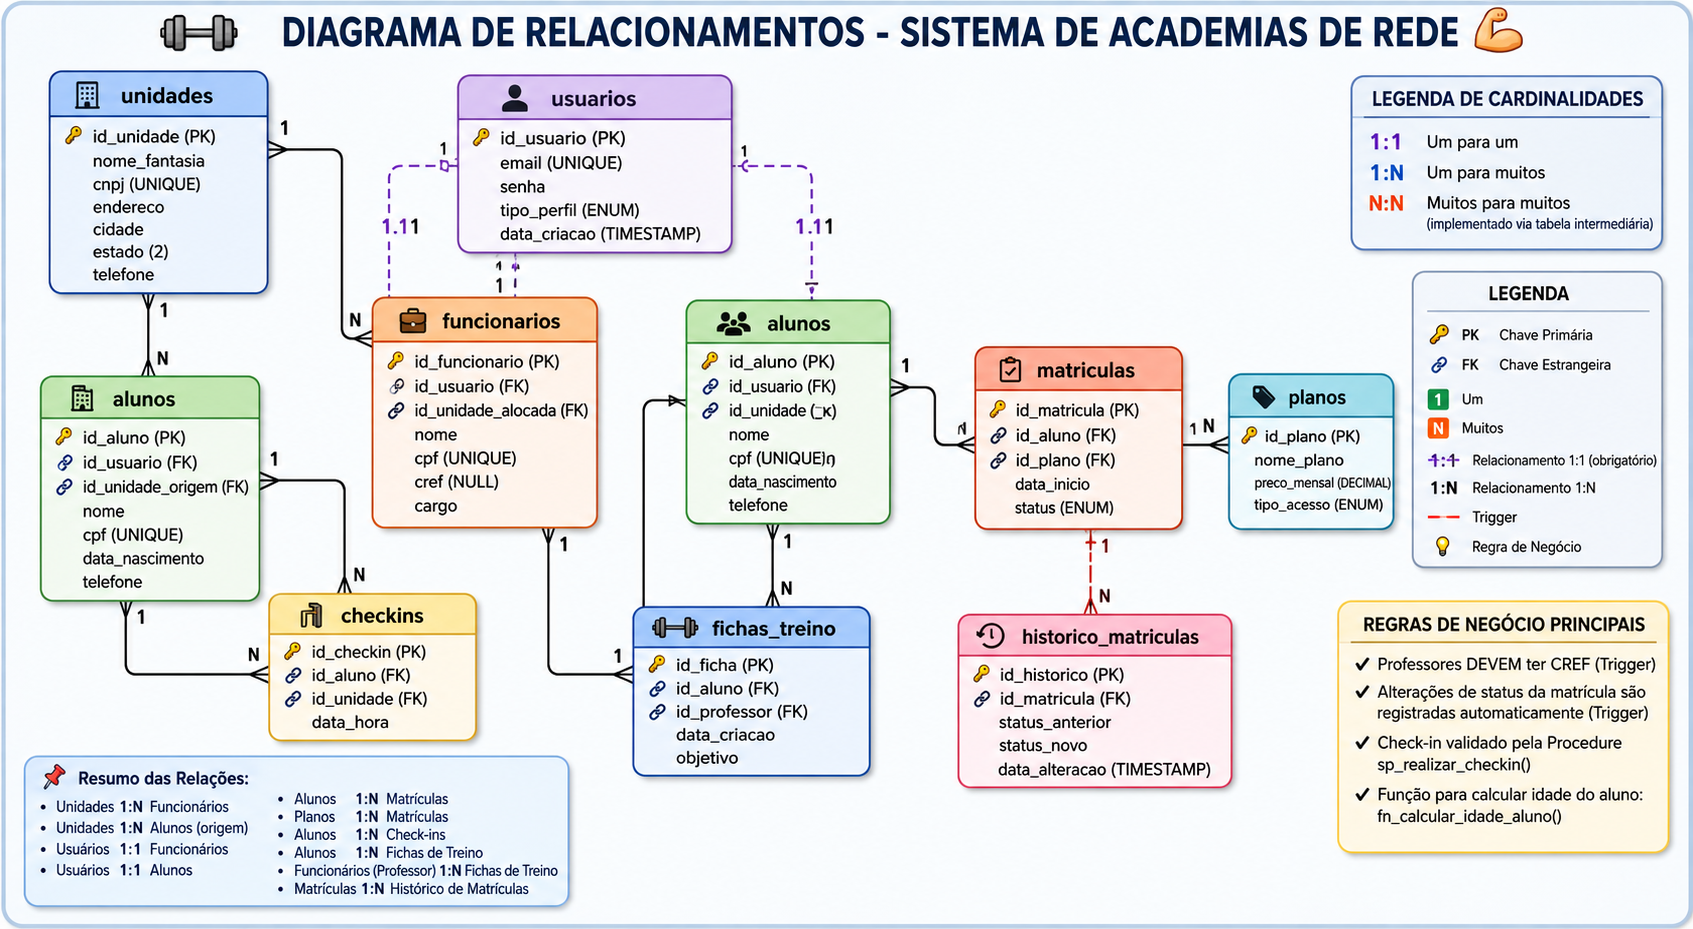
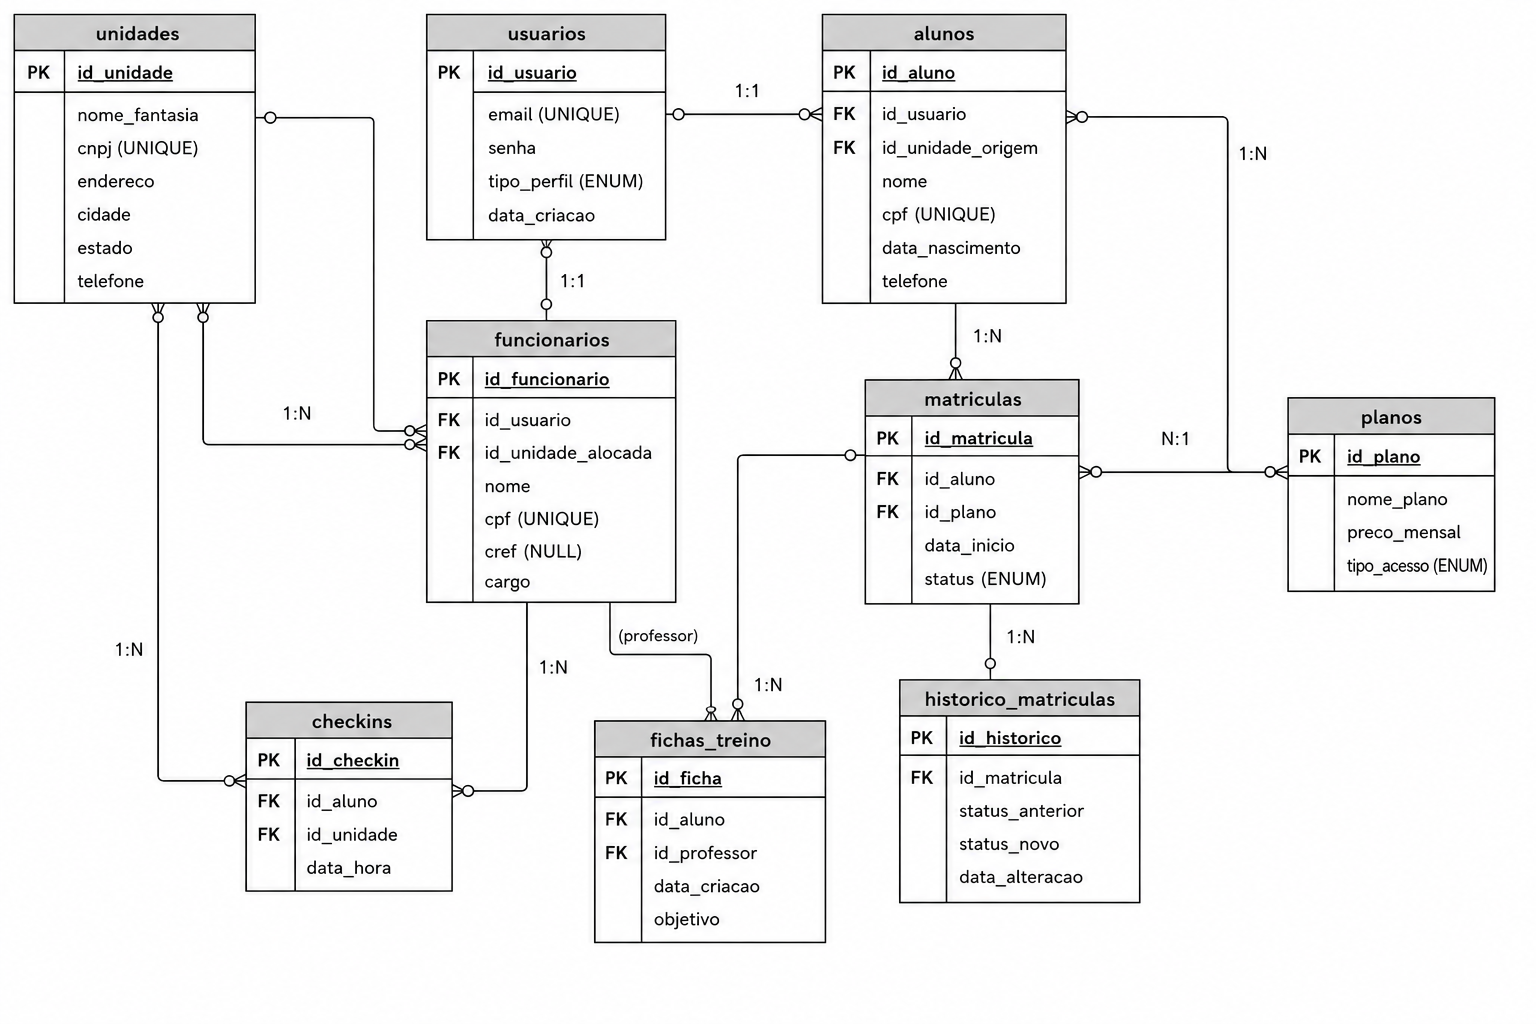
Atualização final do projeto

diff --git a/README.md b/README.md
@@ -1,6 +1,6 @@
-# 🏋️ Sistema de Gerenciamento de Academias de Rede
+# Sistema de Gerenciamento de Academias de Rede
 
-## 📌 Sobre o Projeto
+## Sobre o Projeto
 
 Este projeto consiste no desenvolvimento de um **Banco de Dados Relacional** para um **Sistema de Gerenciamento de Academias de Rede**, permitindo o controle integrado das unidades da academia, alunos, funcionários, planos, matrículas, frequência e fichas de treino.
 
@@ -8,7 +8,7 @@ O objetivo é simular um cenário real de uma rede de academias, aplicando conce
 
 ---
 
-## 🎯 Objetivos do Projeto
+## Objetivos do Projeto
 
 - Modelar um banco de dados para uma rede de academias;
 - Implementar tabelas com relacionamentos e restrições;
@@ -20,7 +20,7 @@ O objetivo é simular um cenário real de uma rede de academias, aplicando conce
 
 ---
 
-## 🛠 Tecnologias Utilizadas
+## Tecnologias Utilizadas
 
 - **MySQL 8.0+**
 - SQL (DDL e DML)
@@ -30,7 +30,7 @@ O objetivo é simular um cenário real de uma rede de academias, aplicando conce
 
 ---
 
-# 📂 Estrutura do Projeto
+# Estrutura do Projeto
 
 ```text
 Sistema de Gestão de Academias/
@@ -45,7 +45,7 @@ Sistema de Gestão de Academias/
 
 ---
 
-# 📋 Escopo do Sistema
+# Escopo do Sistema
 
 O sistema permite gerenciar:
 
@@ -61,7 +61,7 @@ O sistema permite gerenciar:
 
 ---
 
-# 🏢 Entidades do Sistema
+# Entidades do Sistema
 
 ## Unidades
 
@@ -157,45 +157,7 @@ Permite auditoria e acompanhamento da frequência dos alunos.
 
 Armazena os treinos prescritos pelos professores.
 
----
-
-# 🔗 Modelo Relacional
-
-## Relacionamentos
-
-| Entidades | Cardinalidade |
-|-----------|---------------|
-| Usuários × Funcionários | 1:1 |
-| Usuários × Alunos | 1:1 |
-| Unidades × Funcionários | 1:N |
-| Unidades × Alunos | 1:N |
-| Alunos × Matrículas | 1:N |
-| Planos × Matrículas | 1:N |
-| Alunos × Check-ins | 1:N |
-| Unidades × Check-ins | 1:N |
-| Alunos × Fichas de Treino | 1:N |
-| Funcionários × Fichas de Treino | 1:N |
-| Matrículas × Histórico de Matrículas | 1:N |
-
----
-
-## Relacionamento N:N Normalizado
-
-Conceitualmente:
-
-```text
-Alunos ←→ Planos
-```
-
-Foi implementado através da tabela intermediária:
-
-```text
-Alunos (1) ← Matrículas → (1) Planos
-```
-
----
-
-# ⚙️ Regras de Negócio
+# Regras de Negócio
 
 ## Controle de acesso à rede
 
@@ -221,7 +183,7 @@ Toda alteração de status em uma matrícula é registrada automaticamente.
 
 ---
 
-# 🧩 Objetos Programáveis
+# Objetos Programáveis
 
 ## Stored Function
 
@@ -251,7 +213,7 @@ CALL sp_realizar_checkin(1, 2);
 
 ---
 
-# 🔔 Triggers
+# Triggers
 
 ## `tr_validar_cref_professor`
 
@@ -265,7 +227,7 @@ Registra automaticamente alterações no status das matrículas.
 
 ---
 
-# 👁 Views
+# Views
 
 ## `vw_alunos_ativos`
 
@@ -285,7 +247,7 @@ Lista os funcionários agrupados por unidade.
 
 ---
 
-# 📊 Estrutura do Banco
+# Estrutura do Banco
 
 ## Principais tabelas
 
@@ -301,7 +263,7 @@ Lista os funcionários agrupados por unidade.
 
 ---
 
-# 🚀 Como Executar o Projeto
+# Como Executar o Projeto
 
 ## 1. Clonar o repositório
 
@@ -322,7 +284,7 @@ Utilize uma das ferramentas abaixo:
 
 ---
 
-# 🧪 Exemplos de Teste
+# Exemplos de Teste
 
 ## Consultar alunos ativos
 
@@ -382,7 +344,7 @@ SELECT * FROM historico_matriculas;
 
 ---
 
-# 📈 Possíveis Evoluções do Projeto
+# Possíveis Evoluções do Projeto
 
 - Controle financeiro e pagamentos;
 - Integração com aplicativos mobile;
@@ -394,7 +356,7 @@ SELECT * FROM historico_matriculas;
 
 ---
 
-# 🎓 Contexto Acadêmico
+# Contexto Acadêmico
 
 Este projeto foi desenvolvido com fins educacionais para aplicação prática dos conteúdos relacionados a:
 
@@ -406,7 +368,7 @@ Este projeto foi desenvolvido com fins educacionais para aplicação prática do
 
 ---
 
-# 👨💻 Autor
+# Autor
 
 **Pietro Zamperlini Bontempi**
 
@@ -415,7 +377,7 @@ Este projeto foi desenvolvido com fins educacionais para aplicação prática do
 
 ---
 
-# 📄 Licença
+# Licença
 
 Este projeto foi desenvolvido para fins acadêmicos e de aprendizado.
 